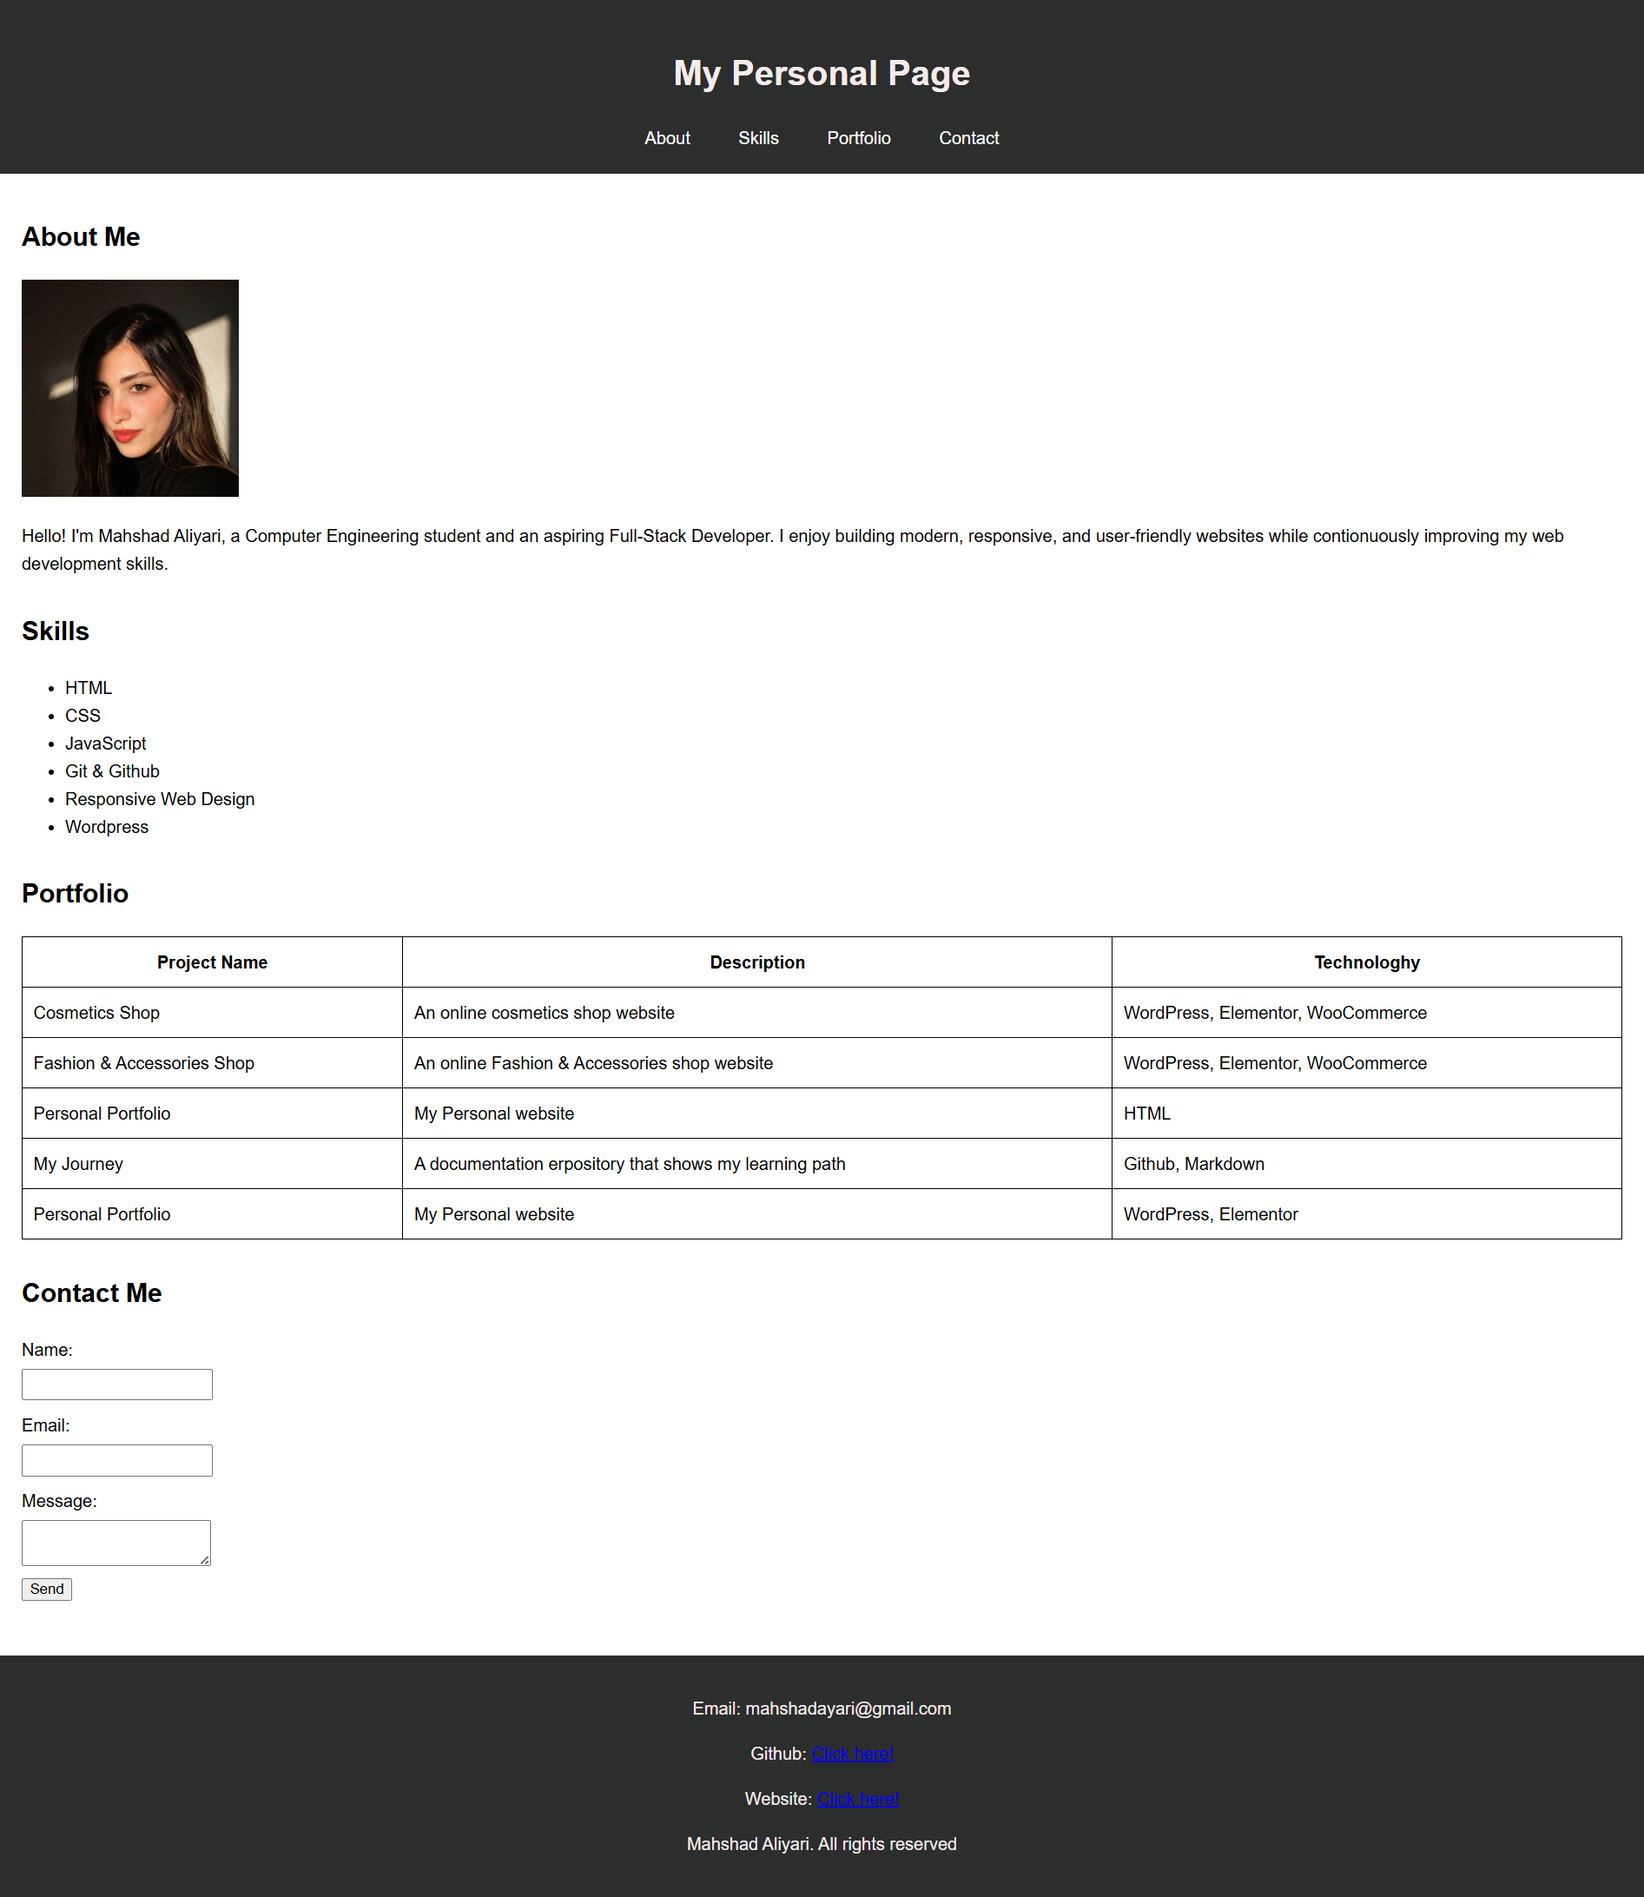
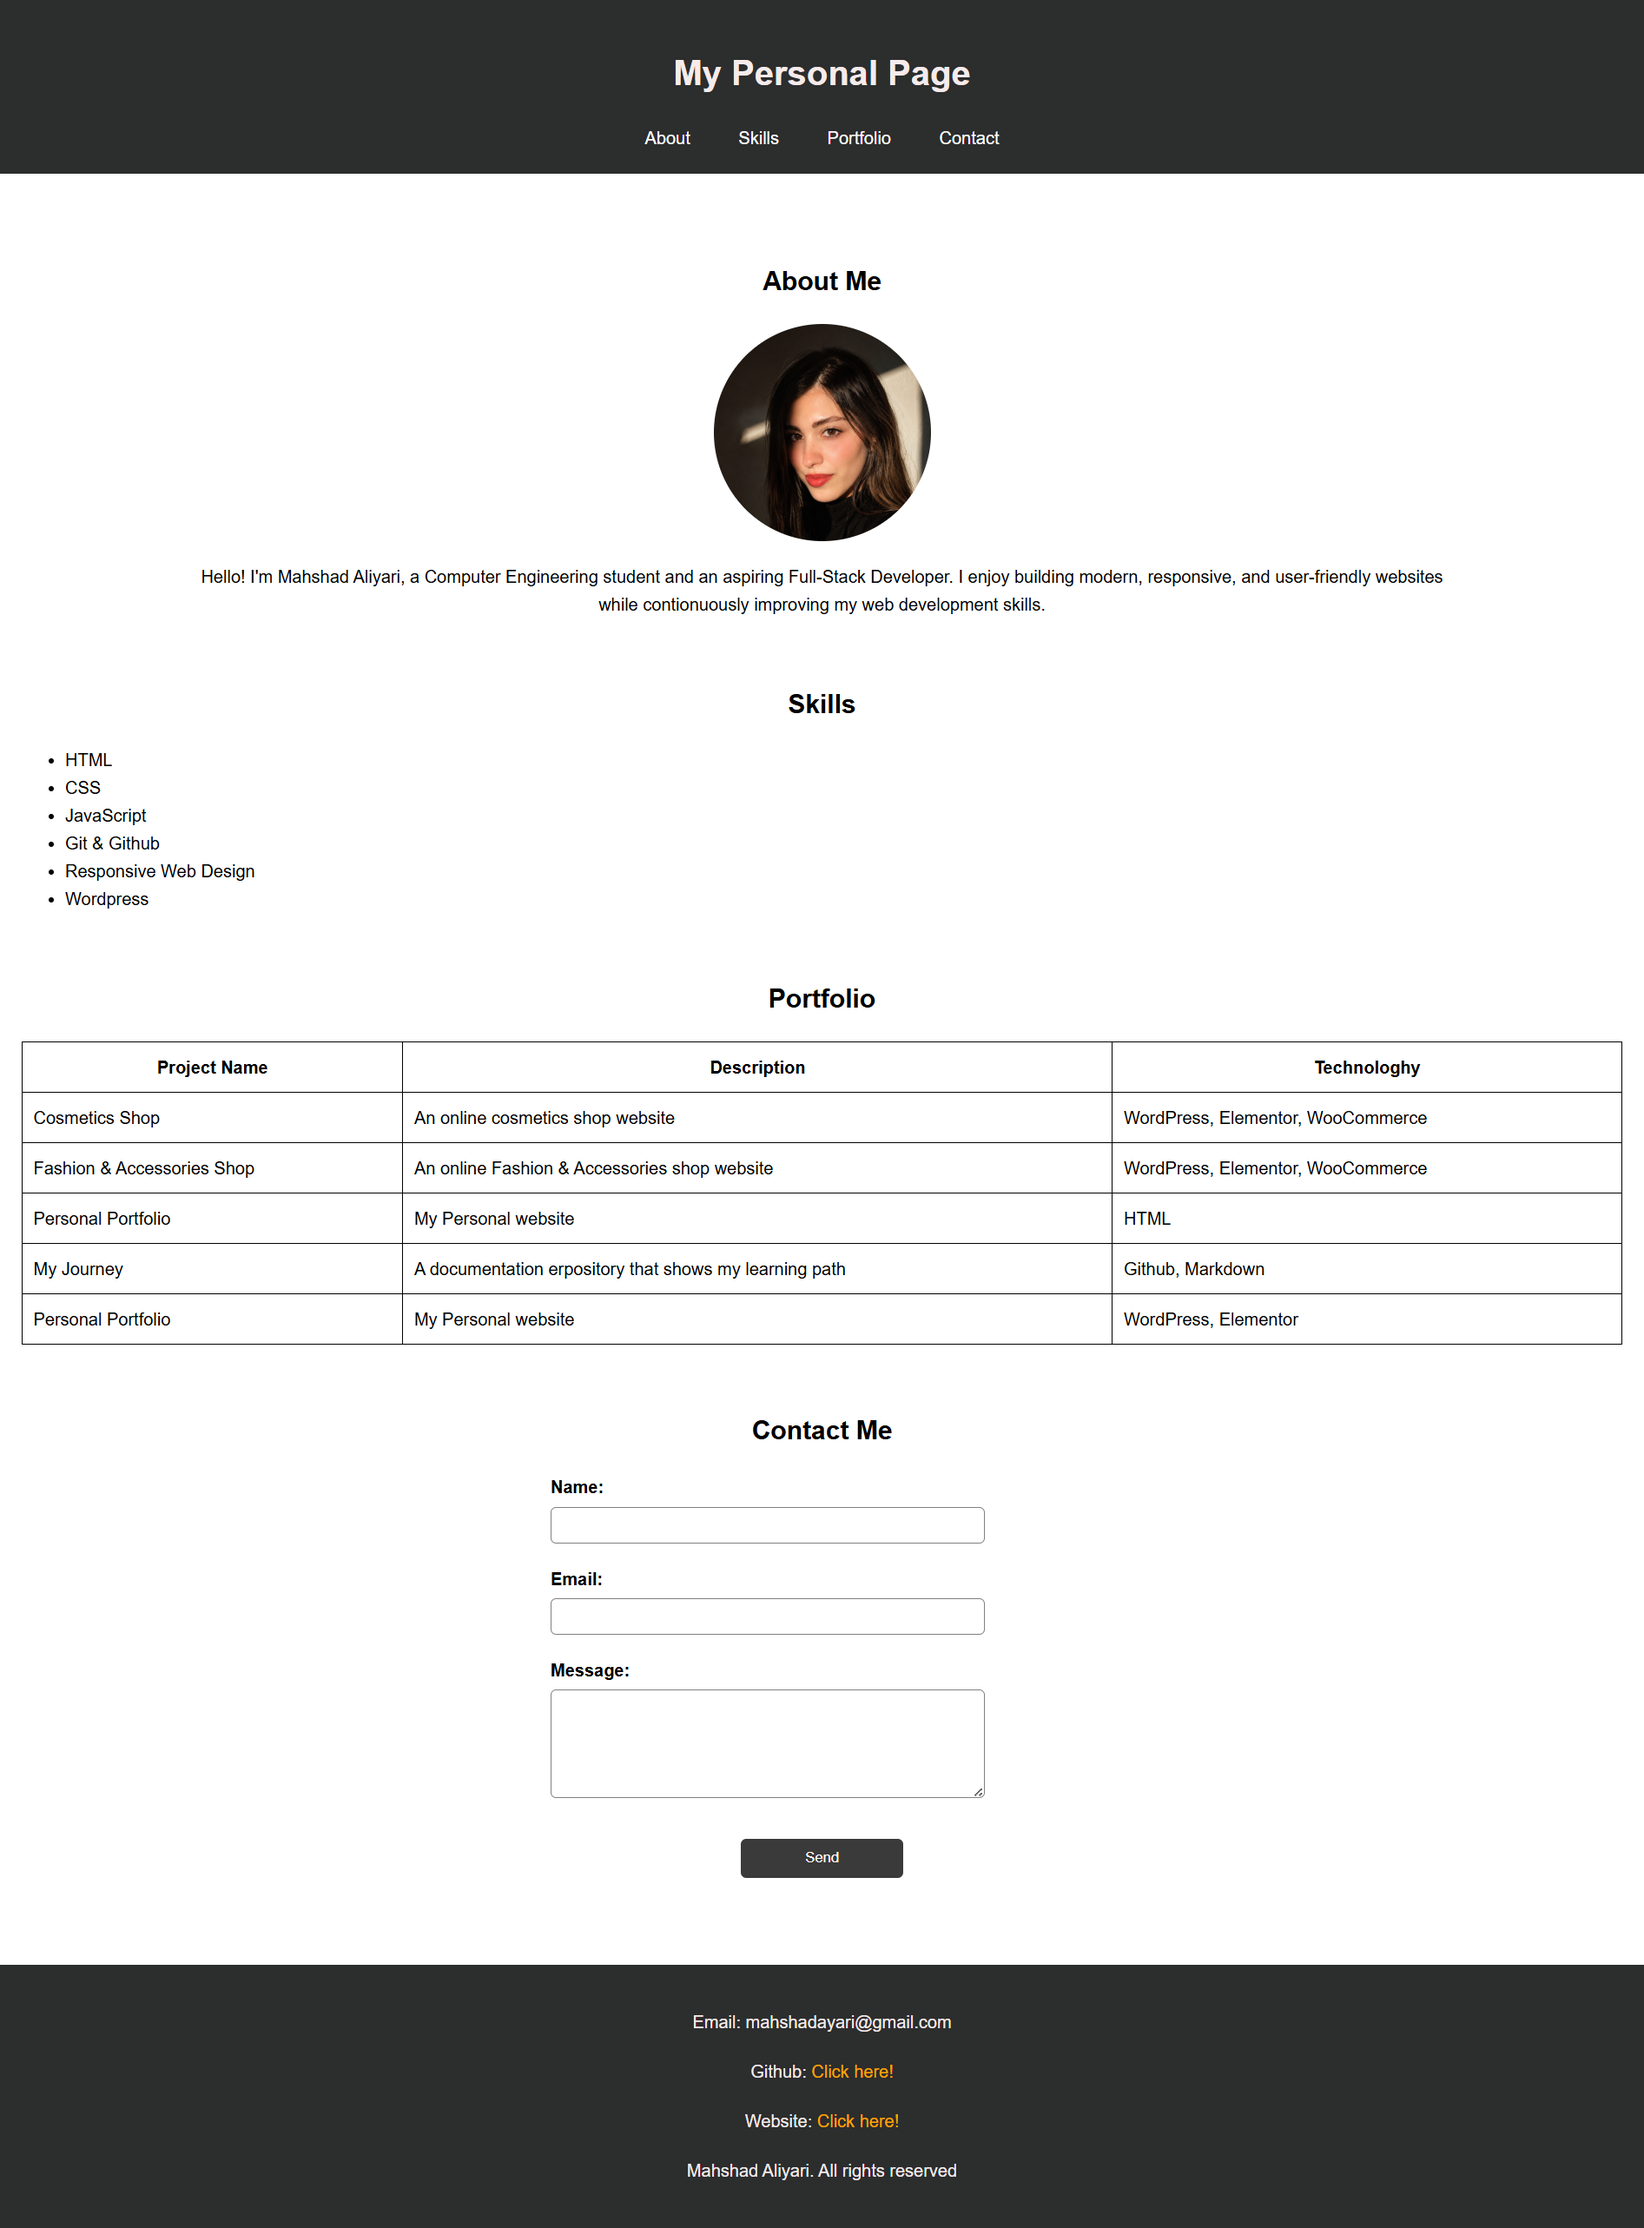
improve responsive style

diff --git a/css/style.css b/css/style.css
@@ -13,6 +13,9 @@ header, footer{
     padding: 20px;
     text-align: center;
 }
+h1:hover {
+    color: orangered;
+}
 nav {
     text-align: center;
 }
@@ -31,6 +34,16 @@ nav li{
     display: inline-block;
     margin: 0 10px;
 }
+nav a:hover{
+    color: orange;
+}
+a {
+    text-decoration: none;
+    color: orange;
+}
+a:hover {
+    color: orangered;
+}
 table {
     width: 100%;
     border-collapse: collapse;
@@ -39,23 +52,93 @@ th, td {
 border: 1px solid black;
 padding: 10px;
 }
+tr:hover {
+    background-color: orange;
+}
 
 main {
     padding: 20px;
 }
-lable {
-    display: block;
-    margin-top: 10px;
-}
-input, textarea {
-    margin-top: 5px;
-    padding: 5px;
-}
-
 section {
-    margin-bottom: 30px;
+    margin: 60px 0;
 }
 img{
+    display: block;
+    margin: 20px auto;
     width: 200px;
     height: auto;
+    border-radius: 50%;
+    
+}
+img:hover {
+    opacity: 60%;
+}
+p {
+    text-align: center;
+    width: 80%;
+    margin: 20px auto;
+}
+h2 {
+    text-align: center;
+}
+form {
+
+    width: 500px;
+    margin: 0 auto;
+}
+
+
+label {
+    display: block;
+    margin-top: 10px;
+    font-weight: bold;
+}
+
+input,
+textarea {
+    width: 400px;
+    padding: 8px;
+    margin-top: 5px;
+    margin-bottom: 10px;
+    border: 1px solid gray;
+    border-radius: 5px;
+    box-sizing: border-box;
+}
+
+textarea {
+    height: 100px;
+}
+
+button {
+    display: block;
+    width: 150px;
+    padding: 10px;
+    background: #3a3a3a;
+    color: white;
+    border: none;
+    border-radius: 5px;
+    margin: 20px auto;
+
+}
+
+button:hover {
+    background-color: orangered;
+
+}
+@media (max-width: 700px) {
+
+    input,
+    textarea {
+        width: 60%;
+    }
+
+    button {
+        width: 120px;
+    }
+     table {
+        width: 100%;
+        font-size: 14px;
+    }
+
+
 }

diff --git a/index.html b/index.html
@@ -81,13 +81,13 @@
         <section id="contact">
             <h2>Contact Me</h2>
             <form>
-                <lable for="name">Name:</lable>
+                <label for="name">Name:</label>
                 <input type="text" id="name" name="name">
 
-                <lable for="email">Email:</lable>
+                <label for="email">Email:</label>
                 <input type="email" id="email" name="email" required>
 
-                <lable for="message">Message:</lable>
+                <label for="message">Message:</label>
                 <textarea id="message"  name="message" required></textarea>
                 <br>
                 <button type="submit">Send</button>
